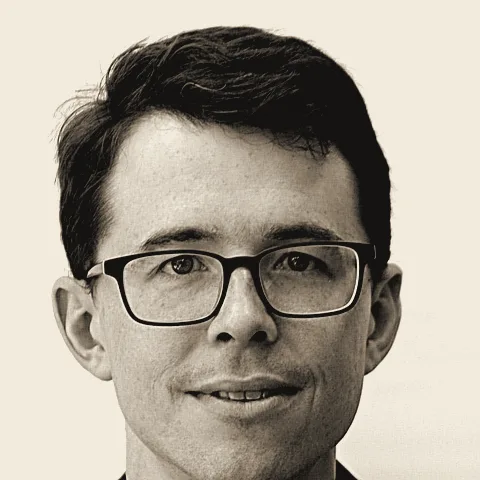
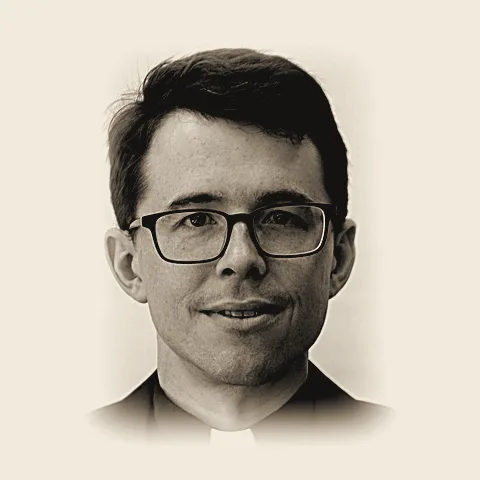
Update: Fr. Robert and Francis portraits zoomed out, photo edges feathered into white

diff --git a/tools/portrait.py b/tools/portrait.py
@@ -12,17 +12,16 @@ im = Image.open(src)
 if im.mode in ("RGBA", "LA", "P"):  # transparent background -> white
     im = im.convert("RGBA"); bg = Image.new("RGBA", im.size, (255, 255, 255, 255)); bg.alpha_composite(im); im = bg
 im = im.convert("RGB")
-# a square that runs past the image edge (to zoom out a tight photo) is filled with a soft blur of the photo itself
-import numpy as np
-a = np.asarray(im)
-pad = ((max(0, -y), max(0, y + s - im.height)), (max(0, -x), max(0, x + s - im.width)), (0, 0))
-a = np.pad(a, pad, mode="edge")  # repeat the outermost pixels outward
-ext = Image.fromarray(a)
-mask = Image.new("L", ext.size, 255)  # soften only the padded strips, so they read as background
-mask.paste(0, (pad[1][0], pad[0][0], pad[1][0] + im.width, pad[0][0] + im.height))
-ext = Image.composite(ext.filter(ImageFilter.GaussianBlur(30)), ext, mask.filter(ImageFilter.GaussianBlur(8)))
-ox, oy = max(0, -x), max(0, -y)
-canvas = ext.crop((x + ox, y + oy, x + ox + s, y + oy + s))
+# a square that runs past the image edge (to zoom out a tight photo) is filled with white
+# and the photo's edges are feathered into it, so no seam shows
+canvas = Image.new("RGB", (s, s), (255, 255, 255))
+if x < 0 or y < 0 or x + s > im.width or y + s > im.height:
+    f = max(8, s // 12)
+    mask = Image.new("L", im.size, 0)
+    mask.paste(255, (f if x < 0 else 0, f if y < 0 else 0, im.width - (f if x + s > im.width else 0), im.height - (f if y + s > im.height else 0)))
+    canvas.paste(im, (-x, -y), mask.filter(ImageFilter.GaussianBlur(f / 2)))
+else:
+    canvas.paste(im, (-x, -y))
 im = canvas.resize((480, 480), Image.LANCZOS)
 g = ImageOps.autocontrast(ImageOps.grayscale(im), cutoff=2)
 g = ImageEnhance.Contrast(g).enhance(1.25).filter(ImageFilter.UnsharpMask(2, 80, 2))
